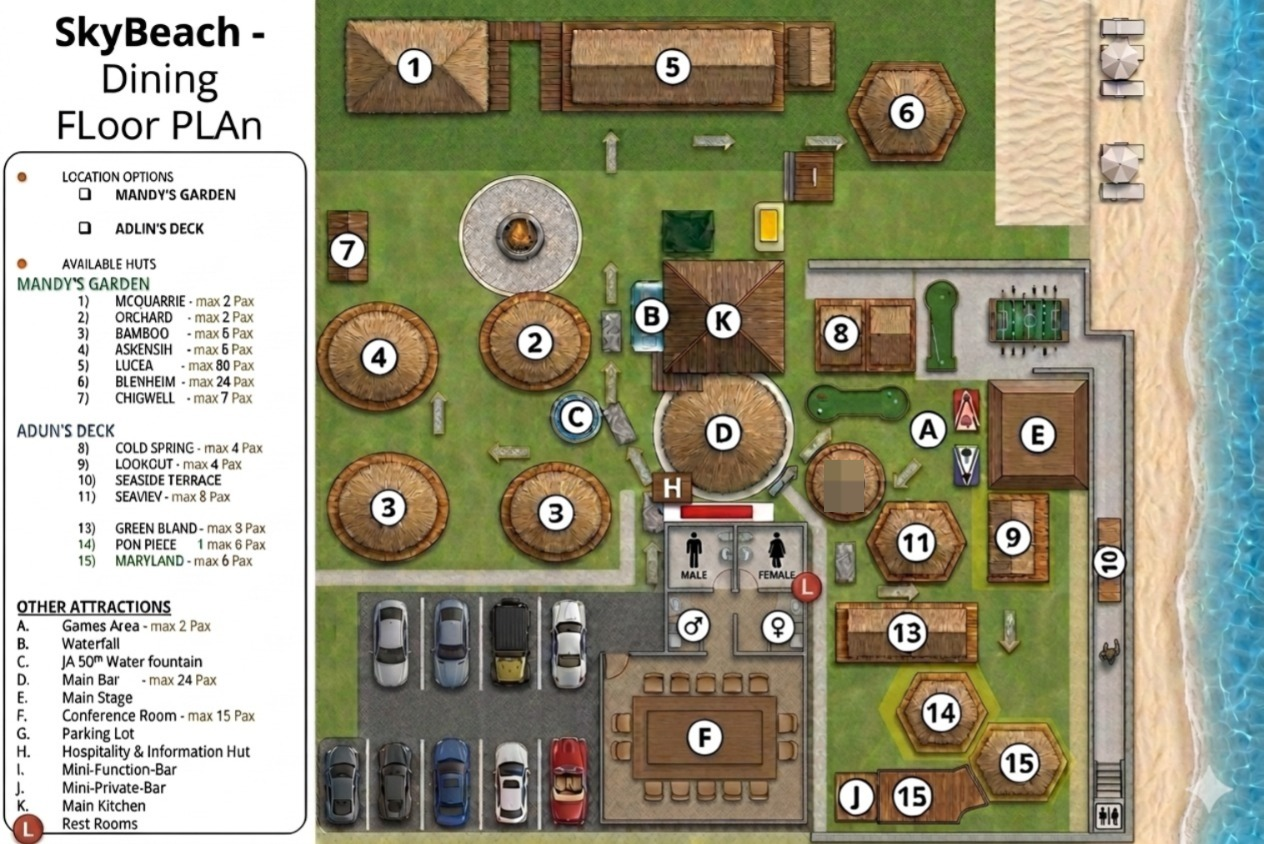
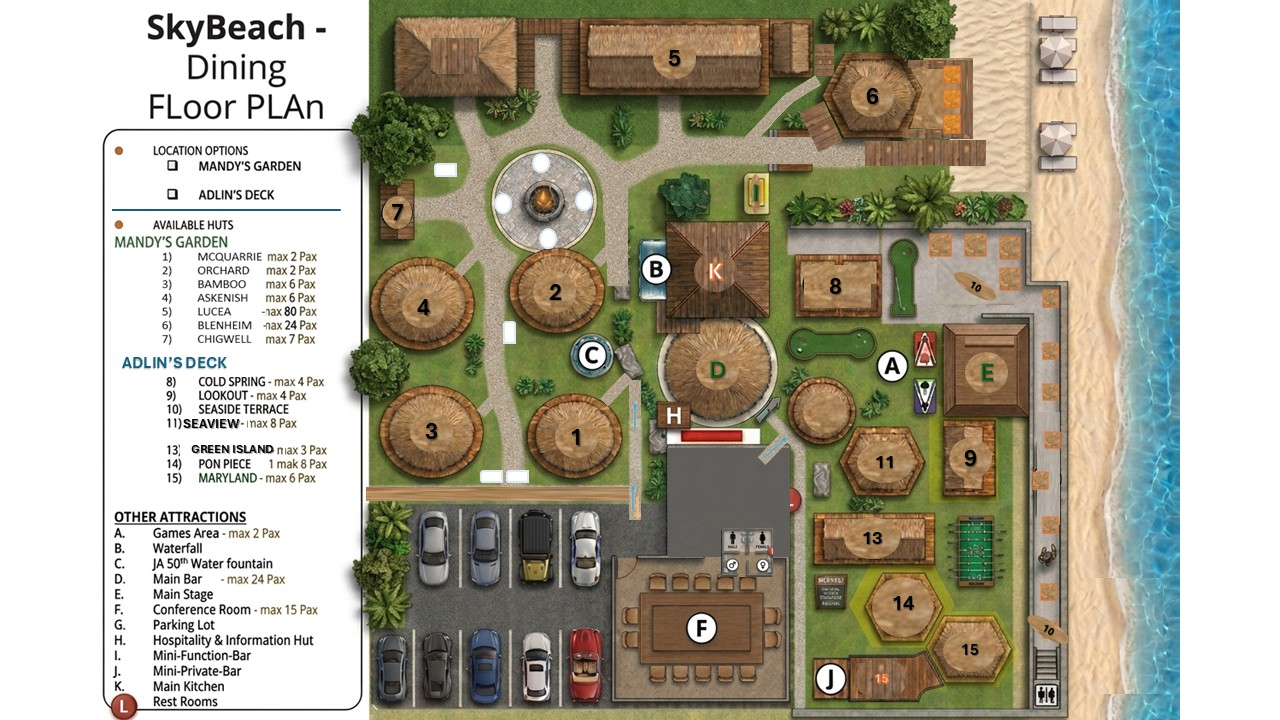
fix: update venue page and floor plan image, ensuring script permissions are set

diff --git a/app/venue/page.tsx b/app/venue/page.tsx
@@ -40,8 +40,8 @@ export default function VenuePage() {
             <Image
               src="/images/venue-floor-plan.jpg"
               alt="Sky Beach dining floor plan showing the Mandy's Garden and Adlin's Deck huts, the main bar, waterfall, games area and other venue features"
-              width={1264}
-              height={844}
+              width={1280}
+              height={720}
               sizes="(max-width: 680px) calc(100vw - 32px), 820px"
               unoptimized
             />
